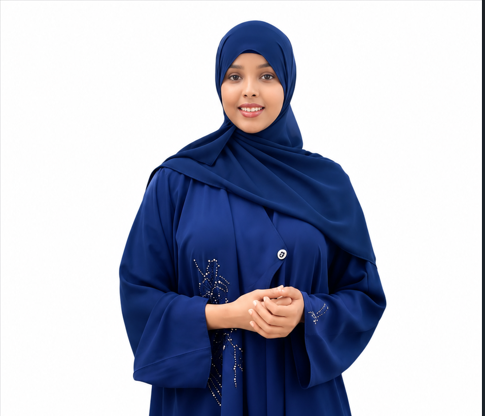
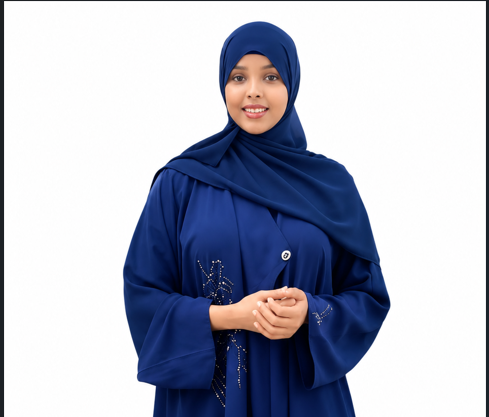
Fix GitHub Pages deployment

diff --git a/portfolio/src/components/Hero.jsx b/portfolio/src/components/Hero.jsx
@@ -110,38 +110,38 @@ export default function Hero() {
           </div>
         </div>
 
-        <div className="relative mx-auto w-full max-w-[320px] justify-self-center sm:max-w-[360px] md:max-w-[400px] lg:max-w-[420px] lg:justify-self-start xl:max-w-[440px]">
-          <div className="pointer-events-none absolute inset-6 rounded-full bg-radial-glow blur-2xl opacity-90" />
+        <div className="relative mx-auto w-[200px] shrink-0 justify-self-center sm:w-[220px] md:w-[240px] lg:w-[250px] lg:justify-self-center">
+          <div className="pointer-events-none absolute inset-4 rounded-full bg-radial-glow blur-2xl opacity-80" />
 
-          <div className="relative px-8 sm:px-10 lg:px-12">
-            <div className="relative z-0 overflow-hidden rounded-2xl border border-black/5 bg-white shadow-card ring-1 ring-accent/20 sm:rounded-3xl">
+          <div className="relative px-6 sm:px-8">
+            <div className="relative z-0 overflow-hidden rounded-2xl border border-black/5 bg-white shadow-card ring-1 ring-accent/20">
               <div className="relative aspect-[3/4] w-full bg-white">
                 <img
-                  src={assetUrl("/profile/asma.png")}
+                  src={`${assetUrl("/profile/asma.png")}?v=4`}
                   alt="Asma Abdirisak"
-                  className="absolute inset-0 h-full w-full bg-white object-contain object-center"
+                  className="absolute inset-0 h-full w-full object-cover object-[center_20%]"
                 />
               </div>
             </div>
 
-            <div className="relative z-20 mt-4 text-center sm:mt-5">
-              <p className="font-display text-lg font-semibold text-white sm:text-xl">
+            <div className="relative z-20 mt-3 text-center">
+              <p className="font-display text-sm font-semibold text-white sm:text-base">
                 Asma Abdirisak
               </p>
-              <p className="mt-1 text-xs text-gray-400 sm:text-sm">Full-Stack Developer</p>
+              <p className="mt-0.5 text-[11px] text-gray-400">Full-Stack Developer</p>
             </div>
 
             {/* Mobile: tech chips */}
-            <div className="relative z-20 mt-3 flex flex-wrap justify-center gap-2 lg:hidden">
+            <div className="relative z-20 mt-3 flex flex-wrap justify-center gap-1.5 lg:hidden">
               {floatingTech.map((tech) => {
                 const Icon = iconMap[tech.name];
                 return (
                   <span
                     key={tech.name}
-                    className="glass-strong inline-flex items-center gap-1.5 rounded-full px-2.5 py-1.5 text-[10px] font-medium text-white"
+                    className="glass-strong inline-flex items-center gap-1 rounded-full px-2 py-1 text-[9px] font-medium text-white"
                   >
                     {Icon ? (
-                      <Icon style={{ color: tech.color }} className="h-3 w-3" aria-hidden="true" />
+                      <Icon style={{ color: tech.color }} className="h-2.5 w-2.5" aria-hidden="true" />
                     ) : null}
                     {tech.name}
                   </span>
@@ -157,11 +157,11 @@ export default function Hero() {
                   key={tech.name}
                   className={`pointer-events-none absolute z-30 hidden lg:block ${badgePositions[index]}`}
                 >
-                  <div className="glass-strong flex items-center gap-2 rounded-full px-3 py-2 shadow-glow-sm">
+                  <div className="glass-strong flex items-center gap-1.5 rounded-full px-2.5 py-1.5 shadow-glow-sm">
                     {Icon ? (
-                      <Icon style={{ color: tech.color }} className="h-4 w-4" aria-hidden="true" />
+                      <Icon style={{ color: tech.color }} className="h-3.5 w-3.5" aria-hidden="true" />
                     ) : null}
-                    <span className="text-xs font-medium text-white">{tech.name}</span>
+                    <span className="text-[11px] font-medium text-white">{tech.name}</span>
                   </div>
                 </div>
               );
